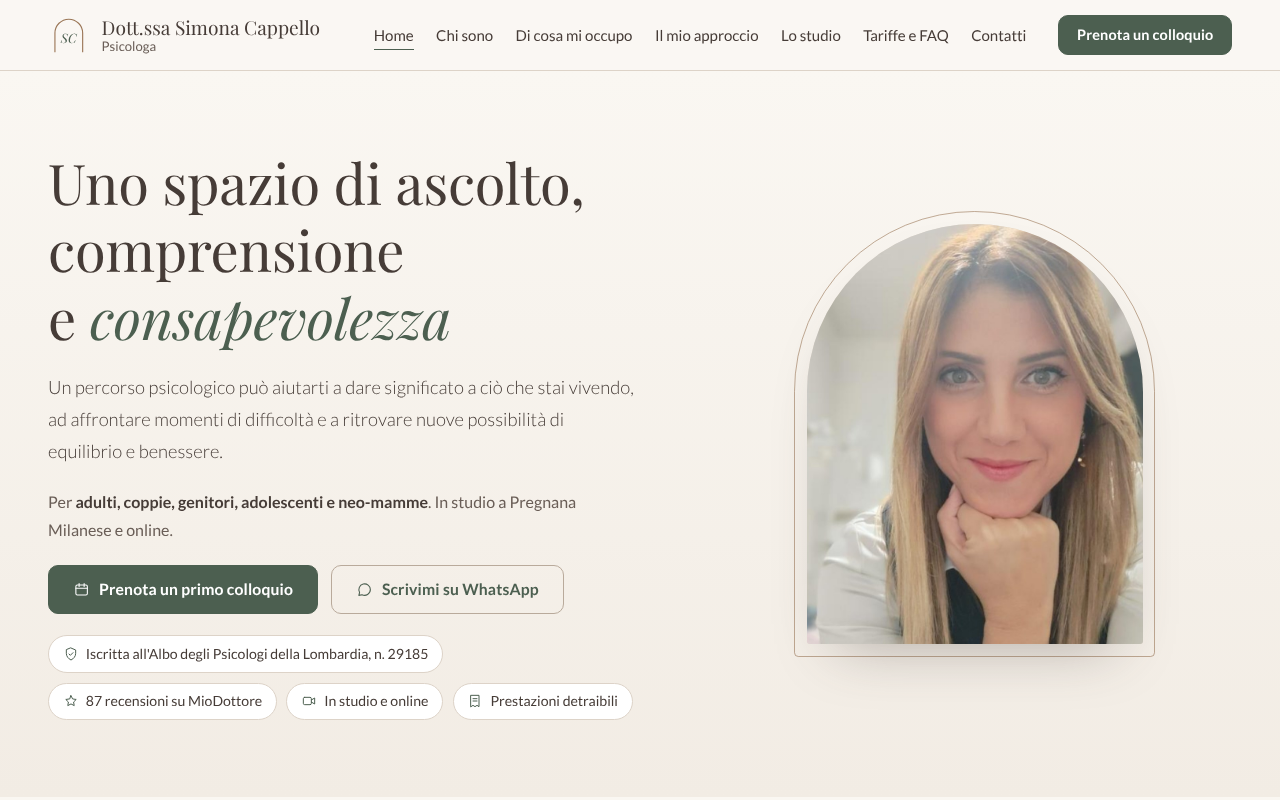
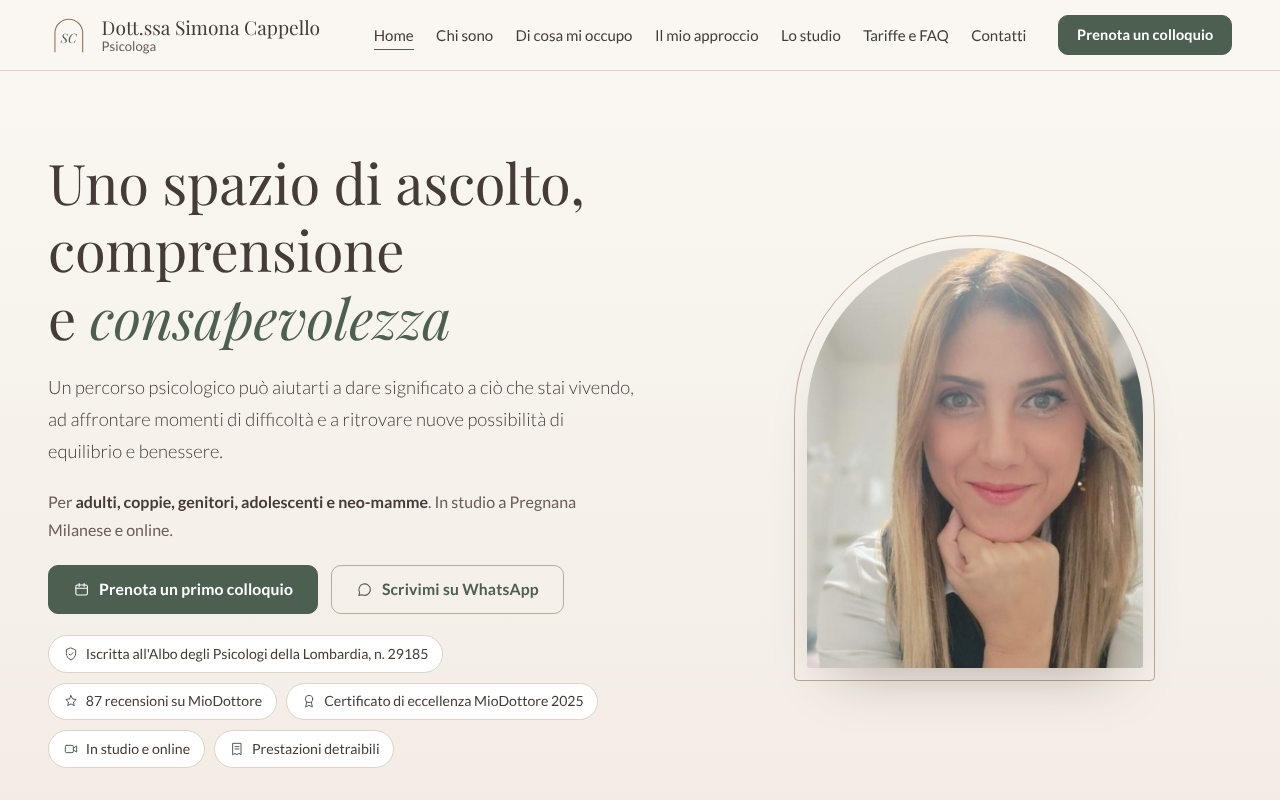
Metodo riscritto nel linguaggio post-razionalista, certificato di eccellenza MioDottore 2025
Claude-Session: https://claude.ai/code/session_01KFYqBywnG8CXY7k35KJZAC

Changed region(s): [[0.625, 0.2812, 0.9062, 0.8438], [0.0312, 0.8438, 0.5, 0.9688]]

diff --git a/sito-simona-cappello/site/index.html b/sito-simona-cappello/site/index.html
@@ -68,6 +68,7 @@
       <ul class="trust" aria-label="In breve">
         <li><svg xmlns="http://www.w3.org/2000/svg" viewBox="0 0 24 24" fill="none" stroke="currentColor" stroke-width="1.5" stroke-linecap="round" stroke-linejoin="round" aria-hidden="true"><path d="M12 3l7 3v5c0 4.5-3 8-7 10-4-2-7-5.5-7-10V6z"/><path d="M9 12l2 2 4-4"/></svg>Iscritta all'Albo degli Psicologi della Lombardia, n. 29185</li>
         <li><svg xmlns="http://www.w3.org/2000/svg" viewBox="0 0 24 24" fill="none" stroke="currentColor" stroke-width="1.5" stroke-linecap="round" stroke-linejoin="round" aria-hidden="true"><path d="M12 4l2.4 4.9 5.4.8-3.9 3.8.9 5.4L12 16.4l-4.8 2.5.9-5.4-3.9-3.8 5.4-.8z"/></svg><a href="https://www.miodottore.it/profilo/simona-cappello" target="_blank" rel="noopener">87 recensioni su MioDottore</a></li>
+        <li><svg xmlns="http://www.w3.org/2000/svg" viewBox="0 0 24 24" fill="none" stroke="currentColor" stroke-width="1.5" stroke-linecap="round" stroke-linejoin="round" aria-hidden="true"><circle cx="12" cy="9" r="5.5"/><path d="M8.5 13.5L7 21l5-2.5 5 2.5-1.5-7.5"/></svg>Certificato di eccellenza MioDottore 2025</li>
         <li><svg xmlns="http://www.w3.org/2000/svg" viewBox="0 0 24 24" fill="none" stroke="currentColor" stroke-width="1.5" stroke-linecap="round" stroke-linejoin="round" aria-hidden="true"><rect x="3.5" y="6.5" width="12" height="11" rx="2"/><path d="M15.5 10.5l5-3v9l-5-3"/></svg>In studio e online</li>
         <li><svg xmlns="http://www.w3.org/2000/svg" viewBox="0 0 24 24" fill="none" stroke="currentColor" stroke-width="1.5" stroke-linecap="round" stroke-linejoin="round" aria-hidden="true"><path d="M6 3.5h12v17l-3-2-3 2-3-2-3 2z"/><path d="M9 8.5h6M9 12h6"/></svg>Prestazioni detraibili</li>
       </ul>
@@ -156,9 +157,9 @@
       <p>Lavoro con l'approccio cognitivo post-razionalista, nato in Italia dal lavoro di Vittorio Guidano. L'idea di fondo è semplice: ognuno di noi ha un modo tutto suo di vivere e interpretare ciò che gli accade. Il nostro lavoro è conoscerlo insieme, per renderlo più sereno e flessibile.</p>
     </div>
     <ol class="method">
-      <li><h3>Partiamo da episodi concreti</h3><p>Non parliamo in astratto. Prendiamo un momento preciso della tua settimana, una discussione, un attacco d'ansia, una scelta difficile, e lo ripercorriamo insieme quasi al rallentatore: cosa è successo, cosa hai provato, cosa hai pensato, cosa hai fatto. Nel modello post-razionalista questa tecnica si chiama "moviola".</p></li>
+      <li><h3>Partiamo dalla tua esperienza</h3><p>Non parliamo in astratto. Ripercorriamo insieme momenti concreti della tua vita, una discussione, un attacco d'ansia, una scelta difficile, per osservare con calma cosa hai sentito e come te lo sei spiegato.</p></li>
       <li><h3>Diamo un senso alle emozioni</h3><p>Le emozioni non sono nemiche da eliminare: sono informazioni preziose su di te. Capire perché una certa situazione ti fa sentire proprio così è il primo passo per viverla in modo diverso.</p></li>
-      <li><h3>Colleghiamo i fili della tua storia</h3><p>Episodio dopo episodio emergono schemi che si ripetono e che spesso hanno radici lontane. Riconoscerli ti restituisce libertà: smetti di subirli e puoi scegliere come rispondere.</p></li>
+      <li><h3>Ricostruiamo il significato della tua storia</h3><p>Ognuno di noi, crescendo, costruisce un modo personale di dare significato a ciò che vive. Conoscerlo meglio aiuta a capire perché alcune situazioni ci toccano così tanto, e ad affrontarle con più flessibilità.</p></li>
       <li><h3>Strumenti concreti, quando servono</h3><p>Se c'è un obiettivo pratico, come una decisione, un cambiamento di lavoro o l'organizzazione delle giornate, integro strumenti di coaching: domande mirate, obiettivi chiari, piccoli passi da provare tra un incontro e l'altro.</p></li>
     </ol>
     <p class="method-end">L'obiettivo non è darti risposte preconfezionate, ma aiutarti a conoscerti meglio e a ritrovare un equilibrio che sia davvero tuo. <a class="link-more" href="approccio.html">Approfondisci il mio approccio</a></p>
@@ -190,7 +191,7 @@
     <div class="reviews">
       <a class="review-source" href="https://www.miodottore.it/profilo/simona-cappello" target="_blank" rel="noopener">
         <span class="num">87</span>
-        <span><strong>Recensioni su MioDottore</strong><span class="muted">Leggi le recensioni</span></span>
+        <span><strong>Recensioni su MioDottore</strong><span class="note-line">Certificato di eccellenza 2025</span><span class="muted">Leggi le recensioni</span></span>
       </a>
       <a class="review-source" href="https://www.google.com/maps/search/?api=1&query=Dott.ssa+Simona+Cappello+Psicologa" target="_blank" rel="noopener">
         <span class="num"><svg xmlns="http://www.w3.org/2000/svg" viewBox="0 0 24 24" fill="none" stroke="currentColor" stroke-width="1.5" stroke-linecap="round" stroke-linejoin="round" aria-hidden="true"><path d="M12 4l2.4 4.9 5.4.8-3.9 3.8.9 5.4L12 16.4l-4.8 2.5.9-5.4-3.9-3.8 5.4-.8z"/></svg></span>

diff --git a/sito-simona-cappello/site/approccio.html b/sito-simona-cappello/site/approccio.html
@@ -85,9 +85,9 @@
       <h2 id="metodo-title">Cosa succede, concretamente, nei nostri incontri</h2>
     </div>
     <ol class="method">
-      <li><h3>Partiamo da episodi concreti</h3><p>Non parliamo in astratto. Prendiamo un momento preciso della tua settimana, una discussione, un attacco d'ansia, una scelta difficile, e lo ripercorriamo insieme quasi al rallentatore: cosa è successo, cosa hai provato, cosa hai pensato, cosa hai fatto. Nel modello post-razionalista questa tecnica si chiama "moviola".</p></li>
+      <li><h3>Partiamo dalla tua esperienza</h3><p>Non parliamo in astratto. Ripercorriamo insieme momenti concreti della tua vita, una discussione, un attacco d'ansia, una scelta difficile, per osservare con calma cosa hai sentito e come te lo sei spiegato.</p></li>
       <li><h3>Diamo un senso alle emozioni</h3><p>Le emozioni non sono nemiche da eliminare: sono informazioni preziose su di te. Capire perché una certa situazione ti fa sentire proprio così è il primo passo per viverla in modo diverso.</p></li>
-      <li><h3>Colleghiamo i fili della tua storia</h3><p>Episodio dopo episodio emergono schemi che si ripetono e che spesso hanno radici lontane. Riconoscerli ti restituisce libertà: smetti di subirli e puoi scegliere come rispondere.</p></li>
+      <li><h3>Ricostruiamo il significato della tua storia</h3><p>Ognuno di noi, crescendo, costruisce un modo personale di dare significato a ciò che vive. Conoscerlo meglio aiuta a capire perché alcune situazioni ci toccano così tanto, e ad affrontarle con più flessibilità.</p></li>
       <li><h3>Strumenti concreti, quando servono</h3><p>Se c'è un obiettivo pratico, come una decisione, un cambiamento di lavoro o l'organizzazione delle giornate, integro strumenti di coaching: domande mirate, obiettivi chiari, piccoli passi da provare tra un incontro e l'altro.</p></li>
     </ol>
   </div>

diff --git a/sito-simona-cappello/site/chi-sono.html b/sito-simona-cappello/site/chi-sono.html
@@ -93,6 +93,7 @@
       <li><span class="k">Albo</span><strong>Iscrizione all'Ordine degli Psicologi della Lombardia n. 29185</strong></li>
       <li><span class="k">Specializzazione</span><strong>Master in Coaching umanistico</strong><span>Coach certificata</span></li>
       <li><span class="k">Formazione, 2024</span><strong>Corso "Sessualità e disturbi alimentari"</strong><span>S.I.S.E.S., Società Italiana di Sessuologia ed Educazione Sessuale</span></li>
+      <li><span class="k">Riconoscimento, 2025</span><strong>Certificato di eccellenza MioDottore</strong><span>Assegnato agli specialisti con valutazioni eccellenti da parte dei pazienti</span></li>
       <li><span class="k">In radio, 2025</span><strong>Story Time, Radio Canale Italia</strong><span>Intervista sul tema del cambiamento</span></li>
       <li><span class="k">Esperienza, 2013-2025</span><strong>Aziende multinazionali</strong><span>Manager, coach per manager e professionisti, risorse umane (selezione e benessere delle persone)</span></li>
       <li><span class="k">Esperienza</span><strong>Ospedale di Bollate, UONPIA</strong><span>Attività con bambini e adolescenti presso l'Unità Operativa di Neuropsichiatria dell'Infanzia e dell'Adolescenza</span></li>

diff --git a/sito-simona-cappello/src/pages/chi-sono.html b/sito-simona-cappello/src/pages/chi-sono.html
@@ -37,6 +37,7 @@
       <li><span class="k">Albo</span><strong>Iscrizione all'{{albo}}</strong></li>
       <li><span class="k">Specializzazione</span><strong>Master in Coaching umanistico</strong><span>Coach certificata</span></li>
       <li><span class="k">Formazione, 2024</span><strong>Corso "Sessualità e disturbi alimentari"</strong><span>S.I.S.E.S., Società Italiana di Sessuologia ed Educazione Sessuale</span></li>
+      <li><span class="k">Riconoscimento, 2025</span><strong>Certificato di eccellenza MioDottore</strong><span>Assegnato agli specialisti con valutazioni eccellenti da parte dei pazienti</span></li>
       <li><span class="k">In radio, 2025</span><strong>Story Time, Radio Canale Italia</strong><span>Intervista sul tema del cambiamento</span></li>
       <li><span class="k">Esperienza, 2013-2025</span><strong>Aziende multinazionali</strong><span>Manager, coach per manager e professionisti, risorse umane (selezione e benessere delle persone)</span></li>
       <li><span class="k">Esperienza</span><strong>Ospedale di Bollate, UONPIA</strong><span>Attività con bambini e adolescenti presso l'Unità Operativa di Neuropsichiatria dell'Infanzia e dell'Adolescenza</span></li>

diff --git a/sito-simona-cappello/assets/style.css b/sito-simona-cappello/assets/style.css
@@ -208,6 +208,7 @@ blockquote.pull { margin: 1.4rem 0 0; font-family: var(--display); font-style: i
 .review-source .num { width: 4.2rem; height: 4.2rem; border-radius: 999px 999px 10px 10px; background: var(--salvia-chiaro); display: grid; place-items: center; font-family: var(--display); font-size: 1.7rem; color: var(--salvia); }
 .review-source .num svg { width: 1.7rem; height: 1.7rem; }
 .review-source strong { display: block; font-size: 1.05rem; }
+.review-source .note-line { display: block; font-size: .9rem; color: var(--salvia); font-weight: 700; }
 .review-source .muted { display: block; font-size: .92rem; text-decoration: underline; text-decoration-color: var(--linea-scura); }
 
 /* Locandine di incontri e workshop: rettangolari, con un cerchio decorativo */

diff --git a/sito-simona-cappello/site/assets/style.css b/sito-simona-cappello/site/assets/style.css
@@ -208,6 +208,7 @@ blockquote.pull { margin: 1.4rem 0 0; font-family: var(--display); font-style: i
 .review-source .num { width: 4.2rem; height: 4.2rem; border-radius: 999px 999px 10px 10px; background: var(--salvia-chiaro); display: grid; place-items: center; font-family: var(--display); font-size: 1.7rem; color: var(--salvia); }
 .review-source .num svg { width: 1.7rem; height: 1.7rem; }
 .review-source strong { display: block; font-size: 1.05rem; }
+.review-source .note-line { display: block; font-size: .9rem; color: var(--salvia); font-weight: 700; }
 .review-source .muted { display: block; font-size: .92rem; text-decoration: underline; text-decoration-color: var(--linea-scura); }
 
 /* Locandine di incontri e workshop: rettangolari, con un cerchio decorativo */

diff --git a/sito-simona-cappello/src/pages/index.html b/sito-simona-cappello/src/pages/index.html
@@ -114,7 +114,7 @@
     <div class="reviews">
       <a class="review-source" href="{{miodottore}}" target="_blank" rel="noopener">
         <span class="num">87</span>
-        <span><strong>Recensioni su MioDottore</strong><span class="muted">Leggi le recensioni</span></span>
+        <span><strong>Recensioni su MioDottore</strong><span class="note-line">Certificato di eccellenza 2025</span><span class="muted">Leggi le recensioni</span></span>
       </a>
       <a class="review-source" href="{{google_reviews}}" target="_blank" rel="noopener">
         <span class="num">{{icon:star}}</span>

diff --git a/sito-simona-cappello/build.py b/sito-simona-cappello/build.py
@@ -61,6 +61,7 @@ ICONS = {
     "circles": f'<svg {_S}><circle cx="9" cy="12" r="5.5"/><circle cx="15" cy="12" r="5.5"/></svg>',
     "bowl": f'<svg {_S}><path d="M3.5 11h17a8.5 8.5 0 0 1-17 0z"/><path d="M9 7c0-1.5 1-2 1-3.5M13 7c0-1.5 1-2 1-3.5"/></svg>',
     "leaf": f'<svg {_S}><path d="M5 19c0-8 5-14 14-14 0 9-6 14-14 14z"/><path d="M5 19c3-4 6-7 10-9"/></svg>',
+    "award": f'<svg {_S}><circle cx="12" cy="9" r="5.5"/><path d="M8.5 13.5L7 21l5-2.5 5 2.5-1.5-7.5"/></svg>',
     "info": f'<svg {_S}><circle cx="12" cy="12" r="8.5"/><path d="M12 11v5M12 8h.01"/></svg>',
 }
 
@@ -159,9 +160,9 @@ def posters(limit=None):
 
 
 METHOD = [
-    ("Partiamo da episodi concreti", "Non parliamo in astratto. Prendiamo un momento preciso della tua settimana, una discussione, un attacco d'ansia, una scelta difficile, e lo ripercorriamo insieme quasi al rallentatore: cosa è successo, cosa hai provato, cosa hai pensato, cosa hai fatto. Nel modello post-razionalista questa tecnica si chiama \"moviola\"."),
+    ("Partiamo dalla tua esperienza", "Non parliamo in astratto. Ripercorriamo insieme momenti concreti della tua vita, una discussione, un attacco d'ansia, una scelta difficile, per osservare con calma cosa hai sentito e come te lo sei spiegato."),
     ("Diamo un senso alle emozioni", "Le emozioni non sono nemiche da eliminare: sono informazioni preziose su di te. Capire perché una certa situazione ti fa sentire proprio così è il primo passo per viverla in modo diverso."),
-    ("Colleghiamo i fili della tua storia", "Episodio dopo episodio emergono schemi che si ripetono e che spesso hanno radici lontane. Riconoscerli ti restituisce libertà: smetti di subirli e puoi scegliere come rispondere."),
+    ("Ricostruiamo il significato della tua storia", "Ognuno di noi, crescendo, costruisce un modo personale di dare significato a ciò che vive. Conoscerlo meglio aiuta a capire perché alcune situazioni ci toccano così tanto, e ad affrontarle con più flessibilità."),
     ("Strumenti concreti, quando servono", "Se c'è un obiettivo pratico, come una decisione, un cambiamento di lavoro o l'organizzazione delle giornate, integro strumenti di coaching: domande mirate, obiettivi chiari, piccoli passi da provare tra un incontro e l'altro."),
 ]
 
@@ -190,6 +191,7 @@ def trust_strip():
     return f"""<ul class="trust" aria-label="In breve">
         <li>{ICONS['badge']}Iscritta all'Albo degli Psicologi della Lombardia, n. 29185</li>
         <li>{ICONS['star']}<a href="{CONFIG['miodottore']}" target="_blank" rel="noopener">87 recensioni su MioDottore</a></li>
+        <li>{ICONS['award']}Certificato di eccellenza MioDottore 2025</li>
         <li>{ICONS['video']}In studio e online</li>
         <li>{ICONS['receipt']}Prestazioni detraibili</li>
       </ul>"""
